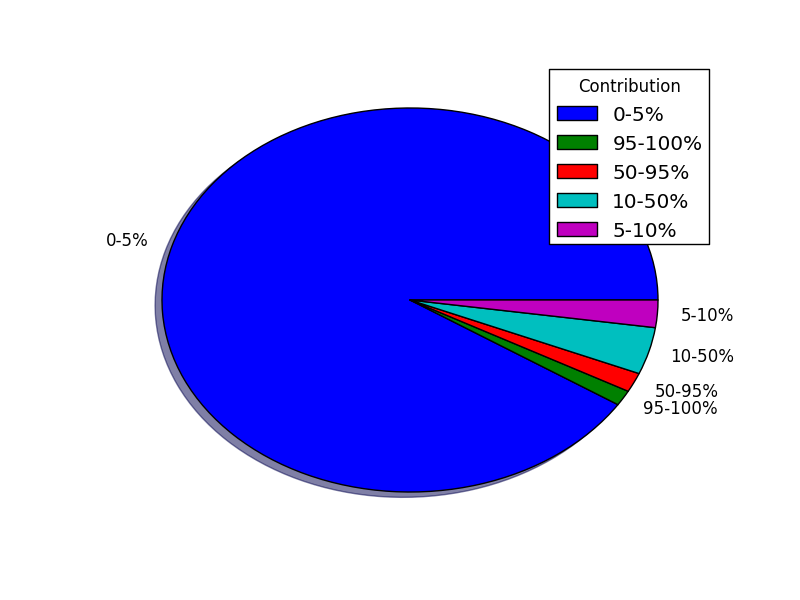
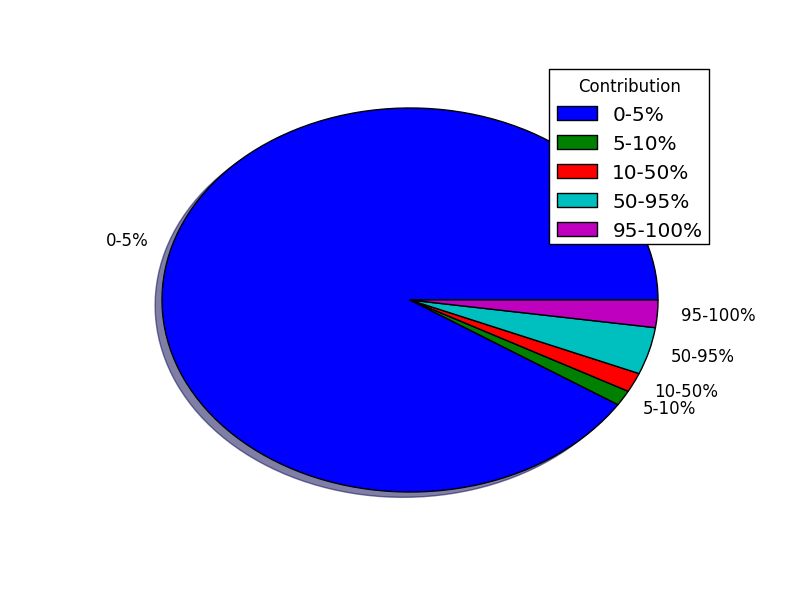
Finished adding in Rick's comments.

diff --git a/paper/main.tex b/paper/main.tex
@@ -31,7 +31,7 @@ Open Source Software (OSS) projects, or software projects with publicly availabl
 
 The development process by which these projects are produced is generally unstructured compared to commercial software, but many projects do exhibit general development patterns. GitHub, a popular OSS code hosting website, along with Git, the site's Source Code Management (SCM) tool of choice, may have the potential to fundamentally change this process by facilitating new patterns and opportunities for developers.
 
-By analyzing a subset of GitHub repositories, this report will show how GitHub has influenced some intrinsic aspects of traditional OSS development, such as developer hierarchies and issue close velocity. We find that many of the traditional aspects of OSS development remain, such as most project development being done by a small group of core developers. Other traditional assumptions about OSS project hierarchy, such as a large number of Issue Reporters compared to Committers, seems unsupported by the GitHub data. We conclude that GitHub represents an evolution of the OSS development process, and not necessarily a large shift.
+By analyzing a subset of GitHub repositories, this report will show how GitHub has influenced some intrinsic aspects of traditional OSS development, such as developer hierarchies and issue close velocity. We find that many of the traditional aspects of OSS development remain, such as most project development being done by a small group of core developers. Other traditional assumptions about OSS developer hierarchy, such as a large number of Issue Reporters compared to Committers, seems unsupported by the GitHub data. We conclude that GitHub represents an evolution of the OSS development process, and not necessarily a large shift.
 \end{abstract}
 
 \noindent \\\textbf{Keywords.} Git, GitHub, Open Source
@@ -48,7 +48,7 @@ Git also allows for a variety of work flows\cite{chacon2009pro}. These work flow
 
 To better understand quantitatively the GitHub process, three hypotheses are introduced. The goal of these hypotheses is to bridge the gap between the more qualitative research of GitHub\cite{dabbish2012social,begel2013social} and the statistical analysis of data from a random sampling of GitHub projects.
 
-In addition, three supporting research questions are proposed. These questions will draw upon data from this work, but also reference several case studies to better represent how GitHub may be changing the way in which OSS development is conducted. These qualitative observations, paired with the more qualitative data analysis, allows for a broad description of the way that GitHub is changing the Software Engineering landscape for OSS.
+In addition, three supporting research questions are proposed. These questions will draw upon data from this work, but also reference several case studies to better represent how GitHub may be changing the way in which OSS development is conducted. These qualitative observations, paired with the more quantitative data analysis, allows for a broad description of the way that GitHub is changing the Software Engineering landscape for OSS.
 
 \subsection{Hypotheses}
 The following hypotheses are presented in an effort to better understand the GitHub development process by analyzing data from actual GitHub projects. Each hypothesis will be backed by previous research in an attempt to show concrete ways in which GitHub may be changing the OSS development process. Where possible, results from previous research on the Apache Server\cite{mockus2000case} is compared, as this work closely aligns with Hypothesis 2 and 3.\\
@@ -65,7 +65,7 @@ As \emph{watches} don't necessarily signal intent to contribute, a positive dire
 \noindent \textbf{Hypothesis 2: As the number Repository Forks increase, the Issue Resolution Time will decrease.}\\
 In OSS, a project \emph{fork} has at times carried negative connotations, and has even been referred to as a hazzard\cite{kogut2001open}. In the context of Git and GitHub, however, a \emph{fork} is a positive occurrence for a project, as it signifies greater project involvement. As Git allows for easy merging of \emph{forks}, code contributions in the form of defect fixes can be incorporated quickly. Because of this, it is expected that \emph{Issue Resolution Time} will decrease as the number of \emph{forks} increases.
 
-The Apache Project noted that a rapid response to problems can be obtained because OSS is not bound to release schedules in the same way commercial software is. ``Patches'' may be released at any time, by any member of the community\cite{mockus2000case}. ``Patches'' in the context of GitHub could be equated to \emph{Pull Requests}. A \emph{Pull Request} is an announcement by a \emph{fork} that there have been changes made that may be appropriate to add back to the main repository. The owners of the main repository may then audit these requests, and \emph{pull} some or all of them back into the main repository.
+The Apache Project noted that a rapid response to problems can be obtained because OSS is not bound to release schedules in the same way as commercial software. ``Patches'' may be released at any time, by any member of the community\cite{mockus2000case}. ``Patches'' in the context of GitHub could be equated to \emph{Pull Requests}. A \emph{Pull Request} is an announcement by a \emph{fork} that there have been changes made that may be appropriate to add back to the main repository. The owners of the main repository may then audit these requests, and \emph{pull} some or all of them back into the main repository.
 
 This hypothesis is, ultimately, an examination of ``Linus Law"\cite{raymond1999cathedral} in the context of GitHub. In other words, the more exposure the code gets (in terms of forks), the easier bugs will be to find and fix.\\
 
@@ -81,14 +81,14 @@ To expand the analysis scope slightly, three qualitative research questions are 
 A small core of developers contributing to a project seems to be a well entrenched pattern of OSS development\cite{mockus2000case,mockus2002two,krishnamurthy2002cave}. At the extreme of this, a study of projects on the software hosting site Sourceforge\footnote{http://sourceforge.net} found that a large percentage of OSS development is done by lone developers\cite{krishnamurthy2002cave}. Is a small core of developers intrinsic to OSS development, or have the social aspects of GitHub and the distributed nature of Git changed this?\\
 
 \noindent \textbf{Research Question 2: How is GitHub changing the OSS process?}\\
-The social aspects of GitHub are an important part of the development experience\cite{dabbish2012social}. User interactions and social pressures can drive OSS development in interesting ways. Social aspects of OSS development have existed before GitHub, with mailing lists\cite{mockus2000case}, gift giving mechanisms\cite{bergquist2008power}, and other code hosting sites. What is GitHub doing to facilitate change on OSS development, and how does it see OSS development changing moving forward?\\
+The social aspects of GitHub are an important part of the development experience\cite{dabbish2012social}. User interactions and social pressures can drive OSS development in interesting ways. Social aspects of OSS development have existed before GitHub, with mailing lists\cite{mockus2000case}, gift giving mechanisms\cite{bergquist2008power}, and other collaboration tools. What is GitHub doing to facilitate change in OSS development, and how does it see OSS development changing moving forward?\\
 
-\noindent \textbf{Research Question 3: Can GitHub be used for more that code artifacts?}\\
+\noindent \textbf{Research Question 3: Can GitHub be used for more than code artifacts?}\\
 The Object Management Group\textsuperscript{\textregistered}\footnote{http://www.omg.org} is a computer industry consortium focused on technology standards. Potential standard submission teams must go through a vetting process\cite{kobryn1999uml} which allows industry representatives to provide feedback on the standard. Gathering and recording this feedback is a challenge, but GitHub's issue tracking system may be able to streamline the process. This just one example of how GitHub is being used for non-code artifacts. Are organizations exploring this type of work flow?
 
 \section{Methods}
 \subsection{Collection and Storage}
-Data collection was done using the GitHub REST API.\footnote{http://developer.github.com/v3/} A random selection of 1000 repositories was selected, and metrics were gathered. The selection process used for choosing the repository sample is described in Algorithm \ref{algo:data_collection_algo}.
+Data collection was done using the GitHub REST API.\footnote{http://developer.github.com/v3/} A random selection of 1000 repositories was selected, and metrics were gathered. Only repositories owned by a GitHub \textit{Organization} were considered. GitHub \textit{Organizations} are group-owned accounts\footnote{https://github.com/blog/674-introducing-organizations}, as opposed to normal individual user-owned accounts. \textit{Organization} owned repositories were chosen to increase the likelihood of analyzing high-participation projects. The selection process used for choosing the repository sample is described in Algorithm \ref{algo:data_collection_algo}.
 
 \begin{algorithm}[H]
 \captionof{algorithm}{Data Collection Algorithm}\label{algo:data_collection_algo}
@@ -106,7 +106,7 @@ Data collection was done using the GitHub REST API.\footnote{http://developer.gi
 \end{algorithmic}
 \end{algorithm}
 
-Repositories were gathered at random, but only repositories owned by an \textit{Organization} GitHub User type were considered. After a random repository has been selected, the \textsc{isOrgRepo} function will filter out all non \textit{Organization} owned repositories. Next, the \textsc{store} function accepts as an input the given repository. The purpose of this function is to persist the given repository to a database for further analysis. Results were stored in a MySQL relational database management system. The database schema to store the data is described in Figure \ref{fig:er_diagram}.
+When a random repository has been selected, the \textsc{isOrgRepo} function will filter out all non \textit{Organization} owned repositories. Next, the \textsc{store} function accepts as an input the given repository. The purpose of this function is to persist the given repository to a database for further analysis. Results were stored in a MySQL relational database management system. The database schema to store the data is described in Figure \ref{fig:er_diagram}.
 
 \begin{figure}
 \includegraphics[height=3in,width=3in]{images/er.png}
@@ -147,7 +147,7 @@ The individual \textit{Attribute} names, or the elements of $A^\prime$, are desc
 The number of issues posted to a repository's issue tracker.\footnote{https://github.com/blog/411-github-issue-tracker}
 
 \noindent \textbf{\textit{Commits:}}
-The number of individual source code commits to a repository. It is important to note that a \textit{commit} is a single transaction that changes the code contents of a repository. Actual commit ``size'' (lines of code modified, for example) is not taken into account.
+The number of individual source code commits to a repository. It is important to note that a \textit{commit} is a single transaction that changes the code contents of a repository. Actual commit ``size'' (lines of code modified, number of files changed, for example) is not taken into account.
 
 \noindent \textbf{\textit{Closed Issues:}}
 The number of issues in a repository in a state of \textsc{closed} at the time of processing.
@@ -206,7 +206,7 @@ A correlation coefficient of \input{watcher_forks_scatterplot-correlation}}\unsk
 \caption{Repostitory watchers and forks}
 \end{figure}
 
-The data reinforces the hypothesis, as does other research in the area. Even though there are arguments that the number of Forks is the true measure of project success\cite{baudry2012towards}, the data suggests that the two measures are related. Also, \textit{Dabbish et al.} have noted that the number of Watches can be a key for others to gauge interest in a project, and thus determine if they should participate \cite{dabbish2013leveraging}. If the number of Watchers of a repository serves as a social cue for participation, even ``passive'' involvement with a project (Watching) could influence the ``active'' participation (Forking). This could possibly contribute to the correlation of the two variables.\\
+The data reinforces the hypothesis, as does other research in the area. Even though there are arguments that the number of Forks is the true measure of project success\cite{baudry2012towards}, the data suggests that the two measures are related. Also, \textit{Dabbish et al.} have noted that the number of Watches can be a key for others to gauge interest in a project, and thus determine if they should participate \cite{dabbish2013leveraging}. If the number of Watchers of a repository serves as a social cue for participation, even ``passive'' involvement with a project (Watching) could influence the ``active'' participation (Forking). This could possibly contribute to the correlation of the two variables. It is important to note, however, that we cannot conclude any causal relationship between the two variables. Concluding whether the social cue for participation is the Forks, the Watchers, or some combination, is not possible given the data and methods used.\\
 
 \noindent \textbf{Hypothesis 2: As the number Repository Forks increase, the Issue Resolution Time will decrease.}\\
 No significant correlation was found between the number of repository forks and issue resolution time. It is important to note, however, that issue resolution time is not necessarily related to software product quality in the context of GitHub. We can assert that for several reasons. \textit{First}, GitHub issues are not necessarily product defects. Issues may be feature requests, comments, or general support questions. \textit{Second}, GitHub projects may have primary issue tracking services elsewhere, while using the GitHub issues as secondary services or not at all. \textit{Third}, Pham \textit{et al.} explore an emerging ``testing culture'' in GitHub. This, among other things, suggests that GitHub may be facilitating testing by making it more \emph{triable} by lowering entry barriers, and makng the process as a whole more \emph{observable}. This aspect is something which could have sizable impacts on software quality but wouldn't necessarily be reflected in this metric\cite{phamcreating}.
@@ -229,11 +229,11 @@ As shown in Figure \ref{fig:issue_reporters_committers_scatterplot}, the slope o
 \label{fig:issue_reporters_committers_scatterplot}
 \end{figure}
 
-Figure \ref{fig:issue_reporters_committers_scatterplot}, does however suggest, however, that that the two variables may be related. The hypothesis implies that there will be a correlation between the two variables -- which is demonstrated by a reasonably strong correlation coefficient of \input{issue_reporters_committers_scatterplot-correlation}}\unskip. More investigation would be necessary to further examine this finding.\\
+Figure \ref{fig:issue_reporters_committers_scatterplot}, does however suggest, however, that that the two variables are related. The hypothesis implies that there will be a correlation between the two variables -- which is demonstrated by a reasonably strong correlation coefficient of \input{issue_reporters_committers_scatterplot-correlation}}\unskip. More investigation would be necessary to further examine this finding.\\
 
 \subsection{Research Questions}
 \noindent \textbf{Research Question 1: Are GitHub projects primarily focused around a small set of core Committers?}\\
-The data in Figure \ref{fig:committers_percentage_pie_chart} represents commit percentage breakdown. The intent of this measurement is to show how the number of repository commits are distributed among it's committers. The slices represent the distribution of committers that that have committed the outer percentage amount of commits to a project, or:
+The data in Figure \ref{fig:committers_percentage_pie_chart} represents commit percentage breakdown, or an analysis of developer \textit{Contribution} percentages to a repository. The intent of this measurement is to show how the number of repository commits are distributed among it's committers. The slices represent the distribution of committers that have committed a given percentage of commits (or a \textit{Contribution} percentage, as labeled in the figure) to a project. For example, a small percentage of developers have contributed $95-100\%$ of the commits to a repository, so this is represented as a small slice in the figure. Contrast that to developers that have committed $0-5\%$ of the commits to a repository. This type of contribution is common, and represented as a larger slice. The \textit{Contribution} percentages are calculated by:
 
 \begin{equation}
 P = \left\{ \frac{ C_u } { |\mathscr{C}| } \times 100 \Big| u \in U \right\}
@@ -273,9 +273,16 @@ Only in a society where technical supremacy is highly appreciated can developers
 
 With this process change can also come cause for concern. The move to Git from a centralized version control system (such as SVN or CVS) is not without its challenges. Differences in philosophy and nomenclature may place added strain on developers\cite{bird2009promises}. Also, it is not to be assumed that process change is always welcome\cite{de2009software}, even if it is an improvement. Developers and organizations have existing processes, SCM tools, and workflow patterns -- which all change at a cost.
 
-Despite the potential migration cost, the National Center for Biomedical Ontology,\footnote{https://github.com/ncbo} the National Cancer Informatics Program,\footnote{https://github.com/ncip} NASA,\footnote{https://github.com/nasa} and the WhiteHouse\footnote{https://github.com/WhiteHouse} are just some organizations that have moved all or portions of development to GitHub. As these and other organizations consider the move to GitHub, the distributed and ``social'' aspects of the OSS process will continue to evolve.\\
+Despite the potential migration cost, the National Center for Biomedical Ontology,\footnote{https://github.com/ncbo} the National Cancer Informatics Program,\footnote{https://github.com/ncip} NASA,\footnote{https://github.com/nasa} and the WhiteHouse\footnote{https://github.com/WhiteHouse} are just some organizations that have moved all or portions of development to GitHub. As these and other organizations consider the move to GitHub, the distributed and ``social'' aspects of the OSS process will continue to evolve.
 
-\noindent \textbf{Research Question 3: Can GitHub be used for more that code artifacts?}\\
+According to GitHub Staff member John Britton, lowering the barrier to participation is an important cultural shift:
+\begin{quote}
+GitHub moved the open source community away from a permission culture. Prior to GitHub, contributing to an open source project was very difficult and often involved asking permission. By allowing people to fork a repository and make changes without asking for permission, GitHub has made contributing to someone else's project much easier than it has ever been. By submitting a Pull Request with suggested changes, project maintainers and contributors have a place to discuss changes to code that is already written and to refine it.\cite{github_interview}
+\end{quote}
+
+Spending large amounts of time and resources to participate is a detriment to knowledge-sharing in general, not just OSS development\cite{ardichvili2003motivation}. Because of this, we conclude that this permissive culture of knowlege-sharing that GitHub fosters represents an important change in the OSS process.
+
+\noindent \textbf{Research Question 3: Can GitHub be used for more than code artifacts?}\\
 The OMG\textsuperscript{\textregistered} standardization process is a process by which products strive to produce an interoperability standard by way of an industry standards consortium\cite{omgTechProcess}.
 The standardization process itself aims to, at its conclusion, produce a set of model artifacts containing sufficient detail such that when interpreted and implemented, produce interoperable software.
 At a conceptual level, this can be thought of as a software requirements engineering process as much as a standardization process. If so, of the five main tasks of requirements engineering, Elicitation, Analysis and Negotiation, Documentation, Validation, and Management,\cite{sommerville1998requirements} we can show that GitHub is an appropriate forum for many of them.
@@ -286,14 +293,14 @@ Validation and Management are areas of requirements engineering that GitHub has 
 As mentioned, the CTS2 specification made heavy use of the GitHub issue tracker, as well as another OMG\textsuperscript{\textregistered} specification, ServD.\footnote{https://github.com/servd/servd-specification} For open source specifications, or requirements engineering activities, GitHub has shown to be a viable platform. 
 
 \section{Conclusion}
-The data suggests an evolution in process, but not necessarily a large shift. A small subset of core developers, a traditional aspect of OSS development\cite{mockus2000case,mockus2002two,krishnamurthy2002cave}, seems supported by both the summary data in Figure \ref{eq:variance}, and the distribution of committers per repository in Figure \ref{fig:committers_histogram}. Figure \ref{fig:committers_percentage_pie_chart} shows that a significant number of participation, albeit small, in many repositories. This may indicate a lowered entry barrier for participation.
+The data suggests an \textit{evolution} in process, but not necessarily a large shift. A small subset of core developers, a traditional aspect of OSS development\cite{mockus2000case,mockus2002two,krishnamurthy2002cave}, seems supported by both the summary data in Figure \ref{eq:variance}, and the distribution of committers per repository in Figure \ref{fig:committers_histogram}. Figure \ref{fig:committers_percentage_pie_chart} shows a significant number of participators, albeit with small contribution amounts, in many repositories. This may indicate a lowered entry barrier for participation, and is consistent with the conclusions reached in Research Question 2.
 
-The data summary variance statement in Assertion: \ref{eq:variance} is important, as it suggests large amounts of variety in the observed variables. This may suggest that not all repositories on GitHub are intended to be consumable software artifacts for users, or ``consumers.'' A large number of repositories may not be intended for customer consumption, but merely as example code, experimentation, or exercises. More research into categorizing GitHub repositories is needed. This is one reason why only repositories owned by a GitHub \textit{Organization} were analyzed, as it was anticipated that this would yield a better sample of repositories for analysis.
+The data does not reflect some traditional aspects of OSS development. Notably, it was not observed that there were far more \emph{Issue Reporters} than code \emph{Committers}, which is contrary to what the Apache Server report concluded\cite{mockus2000case}. A possible explanation is the amount of variability in the data collected. Assertion \ref{eq:variance}, which is derived from the summary data shown in Table \ref{table:summary_stats}, suggests large amounts of variety in the observed variables. This may suggest a wide range of repository purposes, or specifically, that not all repositories on GitHub are intended to be consumable software artifacts for users, or ``customers.'' A large number of repositories may not be intended for customer consumption, but merely as example code, experimentation, or exercises. Given this, we cannot state any conclusions regarding participation rates of the \emph{Issue Reporters}. More research into categorizing GitHub repositories, and the role of \emph{Issue Reporters} in them, is needed.
 
-The non-code artifacts in GitHub may fall outside of the domain of software development, but it is a significant aspect of our findings. From government documents to software specifications, GitHub is being used and used successfully. More research is needed into what role GitHub will play in the work flow of these artifacts, and whether it will influence their traditional work flow, as it has for software development.
+The most notable \textit{evolution} in OSS process driven by GitHub, we conclude, is the lowered barrier to participation. Qualitative analysis conducted in Research Question 2 suggest a cultural shift\cite{begel2013social,github_interview} in the participation process. The data also supports high levels of participation, especially Figure \ref{fig:committers_percentage_pie_chart}, which shows that many repositories have large numbers of developers committing small amounts of code. This, we conclude, represents an important \textit{evolution} in OSS development process.
 
 \section{Acknowledgments}
-We thank Gilberto Fragoso, Ph.D., Paul Alexander, and the GitHub Staff for insight and ideas, Harold Solbrig, Craig Stancl, and Dick Hedger for guidance, and Rick Kiefer for his review.
+We thank Gilberto Fragoso, Ph.D., Paul Alexander, John Britton, and all of the GitHub Staff for interviews, insights and ideas, Harold Solbrig, Craig Stancl, and Dick Hedger for guidance, and Rick Kiefer for his review.
 
 \bibliographystyle{plain}
 \bibliography{bibliography}

diff --git a/code/plotter.py b/code/plotter.py
@@ -35,7 +35,7 @@ class PieChart:
 
 		fig = plt.figure()
 
-		plt.pie(ranges.values(), labels=[key + "%" for key in ranges.keys()], autopct=None, shadow=True)
+		plt.pie(ranges.values(), labels=[key + "%" for key in sorted(ranges.keys(), key=lambda key: int(key.split('-')[0]))], autopct=None, shadow=True)
 
 		plt.legend(title="Contribution")
 
